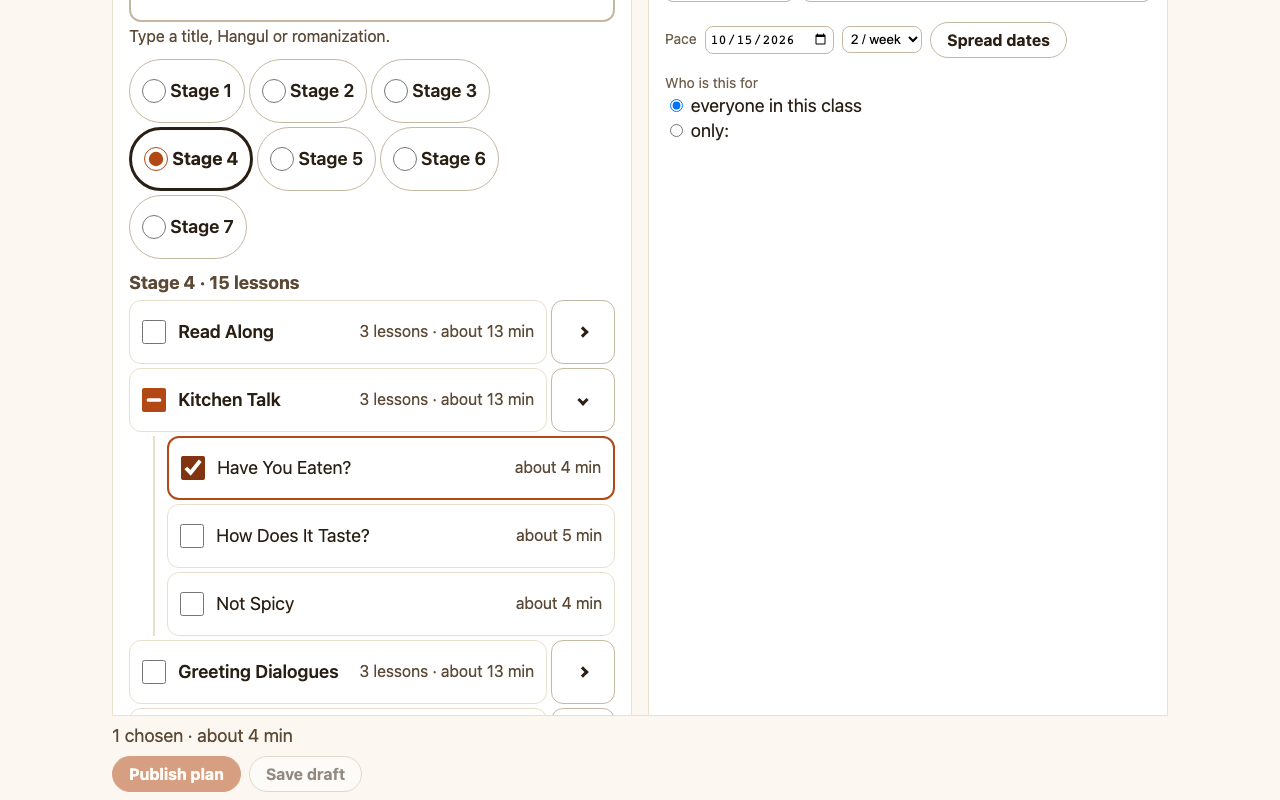
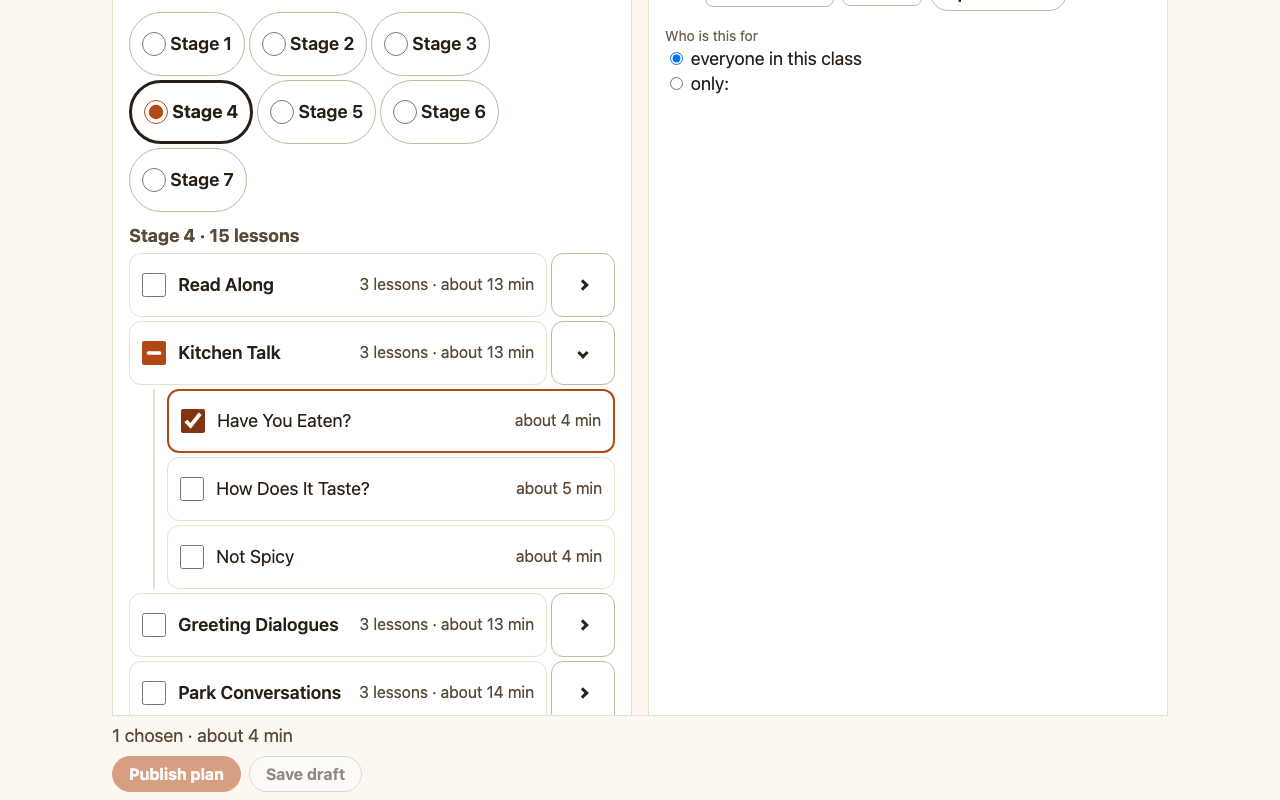
fix(web): sticky bar clearance as the page's scroll padding; padded, underlined picker notes; uncovered-class e2e and shots (LV-3a review)
- A scroll-margin on the picker's rows did not keep keyboard focus out from
  under the sticky bar: Chromium does not scroll an element that is already
  inside the viewport (measured in lesson-picker.spec.ts). The bar's measured
  height is now the document's scroll-padding-bottom while the bar is on the
  page (useStickyClearance; the old value comes back when the bar leaves), so
  Tab onto a row the bar covers scrolls it above the bar. The e2e checks it.
- The picker's note line (the stages line, the full line) lost its padding to
  `.hr-pick p`; its link is now underlined.
- Shots refreshed from lesson-picker.spec.ts, plus
  lesson-picker-plan-uncovered-360.png (Stage 1 and the wizard's line).

Local: web 3484 tests, typecheck (app and e2e), Playwright lesson-picker 6 / 6,
curriculum + reports 52 passed / 1 skipped on the console e2e export.

Changed region(s): [[0.0938, 0.3438, 0.5, 0.875], [0.0938, 0.0, 0.4062, 0.3125], [0.5, 0.0, 0.8438, 0.1875]]

diff --git a/apps/web/src/components/console/__tests__/use-sticky-clearance.test.tsx b/apps/web/src/components/console/__tests__/use-sticky-clearance.test.tsx
@@ -1,37 +1,44 @@
 import { spacing } from '@hangul-route/design-system/tokens';
+import { useState } from 'react';
 import { act, create, type ReactTestRenderer } from 'react-test-renderer';
-import { afterEach, describe, expect, it, vi } from 'vitest';
-import { STICKY_CLEARANCE_VAR, clearanceStyle, useStickyClearance } from '../use-sticky-clearance';
+import { afterEach, beforeEach, describe, expect, it, vi } from 'vitest';
+import { stickyClearance, useStickyClearance } from '../use-sticky-clearance';
 
 /**
- * The plan builder's sticky bar clearance (AMENDMENTS-LESSON-CHOOSER section 6, WCAG 2.4.11): the bar's measured
- * height (plus a small gap) reaches the picker as a custom property its focusable parts use as scroll-margin-bottom,
- * and it follows the bar when the bar wraps.
+ * The plan builder's sticky bar clearance (AMENDMENTS-LESSON-CHOOSER section 6, WCAG 2.4.11): while the bar is on the
+ * page, the document's scroll-padding-bottom is the bar's measured height plus a small gap, it follows the bar when
+ * the bar wraps, and the previous value comes back when the bar leaves. The repo's web tests have no DOM, so the
+ * document is a stub.
  */
 
-function Harness({ onStyle }: { onStyle: (style: Record<string, unknown>) => void }): JSX.Element {
-  const [ref, style] = useStickyClearance<HTMLDivElement>();
-  onStyle(style as Record<string, unknown>);
-  return (
-    <section style={style}>
-      <div ref={ref} data-testid="bar" />
-    </section>
-  );
+let toggle: (on: boolean) => void = () => undefined;
+
+function Harness(): JSX.Element {
+  const ref = useStickyClearance<HTMLDivElement>();
+  const [on, setOn] = useState(true);
+  toggle = setOn;
+  return <section>{on ? <div ref={ref} data-testid="bar" /> : null}</section>;
 }
 
+const root = { style: { scrollPaddingBottom: 'keep' } };
+
+beforeEach(() => {
+  root.style.scrollPaddingBottom = 'keep';
+  vi.stubGlobal('document', { documentElement: root });
+});
 afterEach(() => {
   vi.unstubAllGlobals();
 });
 
-describe('clearanceStyle', () => {
+describe('stickyClearance', () => {
   it('is the bar height rounded up plus spacing.sm, never negative', () => {
-    expect(clearanceStyle(81.2)).toEqual({ [STICKY_CLEARANCE_VAR]: `${82 + spacing.sm}px` });
-    expect(clearanceStyle(-4)).toEqual({ [STICKY_CLEARANCE_VAR]: `${spacing.sm}px` });
+    expect(stickyClearance(81.2)).toBe(`${82 + spacing.sm}px`);
+    expect(stickyClearance(-4)).toBe(`${spacing.sm}px`);
   });
 });
 
 describe('useStickyClearance', () => {
-  it('measures the bar, follows it when it resizes, and stops on unmount', () => {
+  it('pads the page by the bar, follows it when it resizes, and gives the old value back when the bar leaves', () => {
     let height = 90;
     let resize: (() => void) | null = null;
     const disconnect = vi.fn();
@@ -47,25 +54,29 @@ describe('useStickyClearance', () => {
         }
       },
     );
-    const styles: Record<string, unknown>[] = [];
     let renderer!: ReactTestRenderer;
     act(() => {
-      renderer = create(<Harness onStyle={(s) => styles.push(s)} />, { createNodeMock: () => ({ getBoundingClientRect: () => ({ height }) }) });
+      renderer = create(<Harness />, { createNodeMock: () => ({ getBoundingClientRect: () => ({ height }) }) });
     });
-    expect(styles.at(-1)).toEqual({ [STICKY_CLEARANCE_VAR]: `${90 + spacing.sm}px` });
+    expect(root.style.scrollPaddingBottom).toBe(`${90 + spacing.sm}px`);
     height = 180;
     act(() => resize?.());
-    expect(styles.at(-1)).toEqual({ [STICKY_CLEARANCE_VAR]: `${180 + spacing.sm}px` });
-    act(() => renderer.unmount());
+    expect(root.style.scrollPaddingBottom).toBe(`${180 + spacing.sm}px`);
+    act(() => toggle(false));
+    expect(root.style.scrollPaddingBottom).toBe('keep');
     expect(disconnect).toHaveBeenCalled();
+    act(() => renderer.unmount());
+    expect(root.style.scrollPaddingBottom).toBe('keep');
   });
 
-  it('without ResizeObserver the first measure stays', () => {
+  it('without ResizeObserver the first measure stays; unmounting gives the old value back', () => {
     vi.stubGlobal('ResizeObserver', undefined);
-    const styles: Record<string, unknown>[] = [];
+    let renderer!: ReactTestRenderer;
     act(() => {
-      create(<Harness onStyle={(s) => styles.push(s)} />, { createNodeMock: () => ({ getBoundingClientRect: () => ({ height: 40 }) }) });
+      renderer = create(<Harness />, { createNodeMock: () => ({ getBoundingClientRect: () => ({ height: 40 }) }) });
     });
-    expect(styles.at(-1)).toEqual({ [STICKY_CLEARANCE_VAR]: `${40 + spacing.sm}px` });
+    expect(root.style.scrollPaddingBottom).toBe(`${40 + spacing.sm}px`);
+    act(() => renderer.unmount());
+    expect(root.style.scrollPaddingBottom).toBe('keep');
   });
 });

diff --git a/apps/web/src/components/console/use-sticky-clearance.ts b/apps/web/src/components/console/use-sticky-clearance.ts
@@ -1,35 +1,46 @@
 'use client';
 
 import { spacing } from '@hangul-route/design-system/tokens';
-import { useCallback, useEffect, useRef, useState, type CSSProperties, type RefCallback } from 'react';
+import { useCallback, useEffect, useRef, useState, type RefCallback } from 'react';
 
-/** The custom property the grouped picker's search, chips, rows and buttons read as `scroll-margin-bottom`. */
-export const STICKY_CLEARANCE_VAR = '--hr-sticky-clearance';
-
-/** The style that carries a sticky bar's height (plus a small gap) to the elements under it. */
-export function clearanceStyle(barHeight: number): CSSProperties {
-  return { [STICKY_CLEARANCE_VAR]: `${Math.max(0, Math.ceil(barHeight)) + spacing.sm}px` } as CSSProperties;
+/** The page's `scroll-padding-bottom` for a sticky bar this tall: its height rounded up, plus a small gap. */
+export function stickyClearance(barHeight: number): string {
+  return `${Math.max(0, Math.ceil(barHeight)) + spacing.sm}px`;
 }
 
 /**
- * A sticky bottom bar's clearance (AMENDMENTS-LESSON-CHOOSER section 6, WCAG 2.4.11): the ref goes
- * on the bar, the style on an ancestor of what scrolls under it. Keyboard focus that scrolls a
- * row into view then stops above the bar, at any text size (the bar is measured, and measured
- * again when it wraps). Without `ResizeObserver` (tests, old browsers) the first measure stays.
+ * A sticky bottom bar's clearance (AMENDMENTS-LESSON-CHOOSER section 6, WCAG 2.4.11): the ref goes on the bar;
+ * while it is mounted the document's `scroll-padding-bottom` is the bar's measured height (measured again when it
+ * wraps, as at 200 % text), so keyboard focus on a row the bar covers scrolls the row above the bar. The previous
+ * value comes back when the bar leaves the page. Without `ResizeObserver` (tests, old browsers) the first measure stays; without a
+ * document (server render) nothing is set.
  */
-export function useStickyClearance<T extends HTMLElement>(): [RefCallback<T>, CSSProperties] {
-  const [height, setHeight] = useState(0);
+export function useStickyClearance<T extends HTMLElement>(): RefCallback<T> {
+  const [height, setHeight] = useState<number | null>(null);
   const observer = useRef<ResizeObserver | null>(null);
   const ref = useCallback((el: T | null) => {
     observer.current?.disconnect();
     observer.current = null;
-    if (!el) return;
+    // The bar left the page (the readout replaced the builder): the padding goes with it.
+    if (!el) {
+      setHeight(null);
+      return;
+    }
     const measure = (): void => setHeight(el.getBoundingClientRect().height);
     measure();
     if (typeof ResizeObserver === 'undefined') return;
     observer.current = new ResizeObserver(measure);
     observer.current.observe(el);
   }, []);
+  useEffect(() => {
+    if (height === null || typeof document === 'undefined') return undefined;
+    const root = document.documentElement;
+    const before = root.style.scrollPaddingBottom;
+    root.style.scrollPaddingBottom = stickyClearance(height);
+    return () => {
+      root.style.scrollPaddingBottom = before;
+    };
+  }, [height]);
   useEffect(() => () => observer.current?.disconnect(), []);
-  return [ref, clearanceStyle(height)];
+  return ref;
 }

diff --git a/apps/web/e2e/lesson-picker.spec.ts b/apps/web/e2e/lesson-picker.spec.ts
@@ -99,11 +99,18 @@ test.describe('the plan builder\'s grouped lesson picker at 360 (LV-3a)', () => 
     await expect(page.getByTestId('publish-plan')).toBeInViewport();
     await page.screenshot({ path: test.info().outputPath('plan-picker-360.png') });
 
-    // Keyboard focus on a row near the bottom stops above the bar (scroll-margin from the bar's height, WCAG 2.4.11).
-    await picker.getByTestId('plan-picker-row-episode:stage2-crafts').focus();
-    const row = await picker.getByTestId('plan-picker-row-episode:stage2-crafts').evaluate((el) => el.closest('label')!.getBoundingClientRect().bottom);
-    const barTop = await bar.evaluate((el) => el.getBoundingClientRect().top);
-    expect(row).toBeLessThanOrEqual(barTop);
+    // Keyboard focus never lands under the bar (WCAG 2.4.11): with a row hidden just under the bar's top edge, Tab
+    // onto it scrolls it above the bar (the page's scroll-padding-bottom is the measured bar height).
+    const crafts = picker.getByTestId('plan-picker-row-episode:stage2-crafts');
+    const rowTop = await crafts.evaluate((el) => el.closest('label')!.getBoundingClientRect().top + window.scrollY);
+    const barTopBefore = await bar.evaluate((el) => el.getBoundingClientRect().top);
+    await page.evaluate((y) => window.scrollTo(0, y), Math.round(rowTop - barTopBefore - 10));
+    expect(await crafts.evaluate((el) => el.closest('label')!.getBoundingClientRect().bottom)).toBeGreaterThan(barTopBefore);
+    await picker.getByTestId('plan-picker-open-episode:stage2-nature').evaluate((el) => (el as HTMLElement).focus({ preventScroll: true }));
+    await page.keyboard.press('Tab');
+    await expect(crafts).toBeFocused();
+    const rowBottom = await crafts.evaluate((el) => el.closest('label')!.getBoundingClientRect().bottom);
+    expect(rowBottom).toBeLessThanOrEqual(await bar.evaluate((el) => el.getBoundingClientRect().top));
 
     await page.getByLabel(en.console.plan.titleField.label).fill('Week 2 words');
     await expect(page.getByTestId('publish-plan')).toBeInViewport();
@@ -124,6 +131,8 @@ test.describe('the plan builder\'s grouped lesson picker at 360 (LV-3a)', () => 
     // The export is built with the free-plan switch off: the wizard's words for it, See plans for a class.
     await expect(picker.getByTestId('plan-picker-notice')).toContainText(en.console.curriculum.preview.warnings.premium(92));
     await expect(picker.getByTestId('plan-picker-notice').getByRole('link', { name: en.console.curriculum.preview.warnings.seePlans.cta })).toBeVisible();
+    await picker.getByTestId('plan-picker-notice').scrollIntoViewIfNeeded();
+    await page.screenshot({ path: test.info().outputPath('plan-picker-uncovered-360.png') });
     await picker.getByTestId('plan-picker-row-episode:stage1-life').check();
     await page.getByLabel(en.console.plan.titleField.label).fill('Week 1');
     await page.getByTestId('publish-plan').click();

diff --git a/apps/web/src/components/console/GroupedLessonPicker.tsx b/apps/web/src/components/console/GroupedLessonPicker.tsx
@@ -56,7 +56,6 @@ export const PICKER_CSS = `
 .hr-pick-chip input,.hr-pick-check input{width:${px(spacing.xl)};height:${px(spacing.xl)};margin:0;flex:none;accent-color:${colors.brand.primary}}
 .hr-pick-chip:has(input:focus-visible),.hr-pick-check:has(input:focus-visible),.hr-pick-btn:focus-visible,.hr-pick-input:focus-visible{${focusRing}}
 .hr-pick-status{color:${colors.text.secondary};font-size:${rem(typography.size.bodySm)}}
-.hr-pick-input,.hr-pick-chip,.hr-pick-check,.hr-pick-btn{scroll-margin-bottom:var(--hr-sticky-clearance,0px)}
 .hr-pick-group{display:flex;flex-direction:column;gap:${rem(spacing.xs)}}
 .hr-pick-rows{display:flex;flex-direction:column;gap:${rem(spacing.xs)}}
 .hr-pick-line{display:flex;align-items:stretch;gap:${rem(spacing.xs)};min-width:0}
@@ -68,7 +67,8 @@ export const PICKER_CSS = `
 .hr-pick .hr-pick-lessons{display:flex;flex-direction:column;gap:${rem(spacing.xs)};margin:${rem(spacing.xs)} 0 0 ${rem(spacing.xl)};padding-left:${rem(spacing.md)};border-left:${px(borderWidth.base)} solid ${colors.border.subtle}}
 .hr-pick .hr-pick-lessons[hidden]{display:none}
 .hr-pick-lessons .hr-pick-title{font-weight:${typography.weight.regular}}
-.hr-pick-note{padding:${rem(spacing.sm)} ${rem(spacing.md)};border-left:${px(borderWidth.thick)} solid ${colors.feedback.nudge};border-radius:${px(radii.sm)};background:${colors.feedback.nudgeLight};color:${colors.text.primary};font-size:${rem(typography.size.bodySm)}}
+.hr-pick .hr-pick-note{padding:${rem(spacing.sm)} ${rem(spacing.md)};border-left:${px(borderWidth.thick)} solid ${colors.feedback.nudge};border-radius:${px(radii.sm)};background:${colors.feedback.nudgeLight};color:${colors.text.primary};font-size:${rem(typography.size.bodySm)}}
+.hr-pick-note a{color:inherit;font-weight:${typography.weight.semibold};text-decoration:underline;text-underline-offset:${px(borderWidth.thick)}}
 .hr-pick-hidden{position:absolute;width:${px(borderWidth.thin)};height:${px(borderWidth.thin)};margin:-${px(borderWidth.thin)};padding:0;overflow:hidden;clip-path:inset(50%);white-space:nowrap;border:0}
 `;
 

diff --git a/apps/web/src/app/(console)/teach/space/plan/page.tsx b/apps/web/src/app/(console)/teach/space/plan/page.tsx
@@ -102,8 +102,8 @@ function PlanInner(): JSX.Element {
   const pickerGroups = useMemo(() => consoleChooserGroups(locale, 'plan', planStages(unlocked)), [locale, unlocked]);
   const pickerKeys = useMemo(() => chooserKeys(pickerGroups), [pickerGroups]);
   const pickerParents = useMemo(() => lessonParents(pickerGroups), [pickerGroups]);
-  // The sticky bar's height, so a focused row is never scrolled under it (WCAG 2.4.11).
-  const [barRef, clearance] = useStickyClearance<HTMLDivElement>();
+  // The sticky bar's height as the page's scroll padding, so a focused row is never left under it (WCAG 2.4.11).
+  const barRef = useStickyClearance<HTMLDivElement>();
 
   /** Replace the draft (a stored plan, a suggestion, a link's add): not an edit. */
   const replaceDraft = (next: Draft): void => {
@@ -340,7 +340,7 @@ function PlanInner(): JSX.Element {
           presentHref={presentable ? ROUTES.spaceLecture(spaceId, 'plan', current.id, roster?.space.kind) : undefined}
         />
       ) : (
-        <section aria-label={p.builderLabel} style={clearance}>
+        <section aria-label={p.builderLabel}>
           <h1 style={{ fontSize: typography.size.title, margin: `0 0 ${spacing.sm}px` }}>{draft.id ? p.editTitle : p.newTitle}</h1>
           {suggestNotice ? <Notice>{suggestNotice}</Notice> : null}
           {plans && plans.length === 0 ? (

diff --git a/apps/web/src/components/console/__tests__/plan-builder-wiring.test.tsx b/apps/web/src/components/console/__tests__/plan-builder-wiring.test.tsx
@@ -214,10 +214,18 @@ describe('the stored draft, the room and the bar', () => {
     expect(one(root, 'plan-picker-row-episode:stage5-life').props.disabled).toBe(false);
   });
 
-  it('the builder section carries the bar height for the picker\'s scroll margin', async () => {
+  it('the page is padded by the sticky bar while the builder shows it (keyboard focus never under the bar)', async () => {
     state.entitlements = { ok: true, data: [LICENSE] };
-    const root = await open();
-    const section = root.find((n) => n.type === 'section' && n.props['aria-label'] === en.plan.builderLabel);
-    expect(section.props.style['--hr-sticky-clearance']).toMatch(/^\d+px$/);
+    const root = { style: { scrollPaddingBottom: '' } };
+    vi.stubGlobal('document', { documentElement: root });
+    try {
+      await open();
+      expect(root.style.scrollPaddingBottom).toMatch(/^\d+px$/);
+      act(() => mounted?.unmount());
+      mounted = null;
+      expect(root.style.scrollPaddingBottom).toBe('');
+    } finally {
+      vi.unstubAllGlobals();
+    }
   });
 });

diff --git a/design/screens/app-shell/lesson-picker.md b/design/screens/app-shell/lesson-picker.md
@@ -2,7 +2,7 @@
 
 Spec: owner report 2026-10-16 item 5 ("the lesson list is shown all at once, too many to take in"), `docs/specs/AMENDMENTS-LESSON-CHOOSER.md` (row **LV-3a**: the grouped chooser on the plan builder and the lecture page's catalogue; it amends F-PLAN-001 section 3.5 and `AMENDMENTS-LECTURE-V2.md` rows LV-3 and LV-4) · wireframe `design/wireframes/console/plan-builder.md` panels **G** and **H** (the builder's catalogue panel, which this replaces; the lecture page's Catalogue section takes the same picker in place of its flat list)
 Built by: `apps/web/src/components/console/GroupedLessonPicker.tsx` over `chooserGroups` (`packages/content-schema/src/schemas/lesson-chooser.ts`); used by `teach/space/plan/page.tsx` (heading **Lessons**) and `LectureParts.tsx` `LectureCatalogueSection` (heading **Catalogue**)
-Shots (Chromium, from `apps/web/e2e/lesson-picker.spec.ts` on the console e2e export): `shots/lesson-picker-plan-360.png`, `shots/lesson-picker-plan-1280.png`, `shots/lesson-picker-plan-320-text200.png`, `shots/lesson-picker-lecture-360.png`
+Shots (Chromium, from `apps/web/e2e/lesson-picker.spec.ts` on the console e2e export): `shots/lesson-picker-plan-360.png`, `shots/lesson-picker-plan-1280.png`, `shots/lesson-picker-plan-320-text200.png`, `shots/lesson-picker-plan-uncovered-360.png` (a class no plan covers: Stage 1 and the wizard's line), `shots/lesson-picker-lecture-360.png`
 
 ## Why
 
@@ -33,4 +33,4 @@ Under the builder, a bar fixed to the bottom of the window while the page scroll
 
 ## Accessibility
 
-Every chip, box and button at least `touchTarget.min`; the focus ring is `borderWidth.thick` `border.focus` on the row label, the chip or the button. Text sizes are rem, so 200 % browser text doubles them; at 320 the chips and rows wrap and nothing scrolls sideways (`lesson-picker-plan-320-text200`). The lesson list of a closed episode is in the page with `hidden`, so `aria-controls` always names a real element. On the plan builder the search field, chips, rows and buttons keep a `scroll-margin-bottom` as tall as the measured sticky bar, so keyboard focus never lands under it (WCAG 2.4.11). **Clear** keeps focus in the search field. The status line is a polite live region that stays in the accessibility tree while empty (visually hidden), so the first "n matches" is announced. The bar's count is rem; the console's shared buttons are px until the display rows give every console page a text size (spec section 9).
+Every chip, box and button at least `touchTarget.min`; the focus ring is `borderWidth.thick` `border.focus` on the row label, the chip or the button. Text sizes are rem, so 200 % browser text doubles them; at 320 the chips and rows wrap and nothing scrolls sideways (`lesson-picker-plan-320-text200`). The lesson list of a closed episode is in the page with `hidden`, so `aria-controls` always names a real element. On the plan builder the page's `scroll-padding-bottom` is the measured height of the sticky bar, so Tab onto a row the bar covers scrolls it above the bar (WCAG 2.4.11). **Clear** keeps focus in the search field. The status line is a polite live region that stays in the accessibility tree while empty (visually hidden), so the first "n matches" is announced. The bar's count is rem; the console's shared buttons are px until the display rows give every console page a text size (spec section 9).

diff --git a/docs/specs/AMENDMENTS-LESSON-CHOOSER.md b/docs/specs/AMENDMENTS-LESSON-CHOOSER.md
@@ -60,7 +60,7 @@ One pure model, `chooserGroups()` in `packages/content-schema/src/schemas/lesson
 ## 6. The plan builder's sticky bar and accessibility
 
 - Under the builder, a bar sticks to the bottom of the window (`position: sticky`, `surface.canvas`, a `border.subtle` top line, bottom padding `max(spacing.sm, safe-area-inset-bottom)`). It holds the count line (`chooser.chosen` "2 chosen · about 17 min", a status, rem text) above **Publish plan**, **Save draft** and Cancel. It is a labelled region (`chooser.bar`). Publish plan is in sight without scrolling at 360 x 640 and at 320 with 200 % text.
-- Focus is never hidden under the bar (WCAG 2.4.11). The bar is measured (`useStickyClearance`, again when it wraps), and the picker's search field, chips, rows and buttons keep a `scroll-margin-bottom` that tall.
+- Focus is never hidden under the bar (WCAG 2.4.11). The bar is measured (`useStickyClearance`, again when it wraps), and while it is on the page the document's `scroll-padding-bottom` is that tall, so Tab onto a row the bar covers scrolls the row above the bar (a `scroll-margin` on the rows does not: Chromium does not scroll an element that is already inside the viewport).
 - **Clear** keeps keyboard focus in the search field. The status line ("4 matches") is a polite live region that stays in the accessibility tree, only visually hidden while empty.
 - Every chip, box and button is at least `touchTarget.min`. The picker's text is rem, so 200 % browser text doubles it and nothing scrolls sideways at 320.
 - When the page replaces its list (a stored draft loads, a link's `?add=`, another plan opened), the picker opens on the group of the first chosen item in the plan's order, with the search cleared and every episode folded. An edit never moves the open chip.
